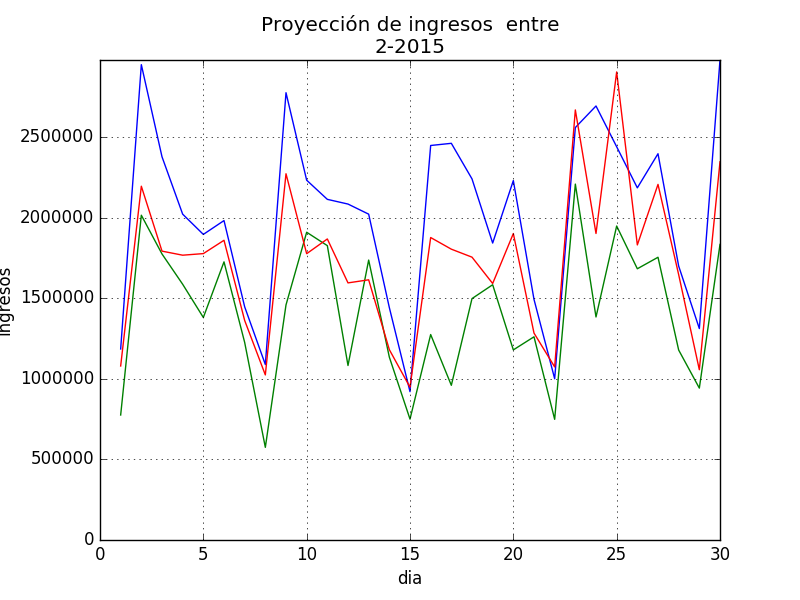
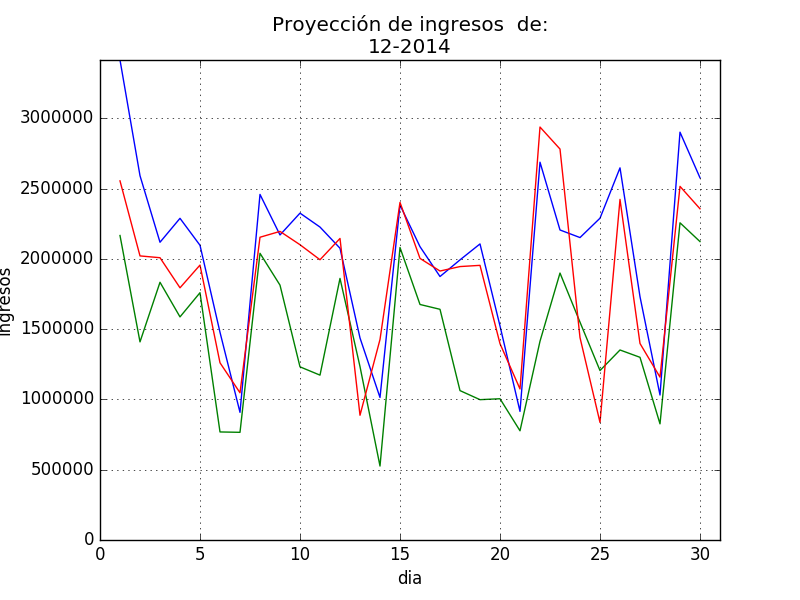
Final

diff --git a/mn_p1/src/mn_p1/interfaz.java b/mn_p1/src/mn_p1/interfaz.java
@@ -59,9 +59,6 @@ public class interfaz extends javax.swing.JFrame {
         jLabel11 = new javax.swing.JLabel();
         jComboBox8 = new javax.swing.JComboBox<>();
         jButton3 = new javax.swing.JButton();
-        jButton4 = new javax.swing.JButton();
-        jLabel12 = new javax.swing.JLabel();
-        jComboBox9 = new javax.swing.JComboBox<>();
 
         setDefaultCloseOperation(javax.swing.WindowConstants.EXIT_ON_CLOSE);
 
@@ -169,22 +166,6 @@ public class interfaz extends javax.swing.JFrame {
             }
         });
 
-        jButton4.setText("<html><p>Pronostico</p><p>Proximo</p><p>Mes (sin ajuste):</p></html>");
-        jButton4.addActionListener(new java.awt.event.ActionListener() {
-            public void actionPerformed(java.awt.event.ActionEvent evt) {
-                jButton4ActionPerformed(evt);
-            }
-        });
-
-        jLabel12.setText("Mes");
-
-        jComboBox9.setModel(new javax.swing.DefaultComboBoxModel<>(new String[] { "01", "02", "03", "04", "05", "06", "07", "08", "09", "10", "11", "12" }));
-        jComboBox9.addActionListener(new java.awt.event.ActionListener() {
-            public void actionPerformed(java.awt.event.ActionEvent evt) {
-                jComboBox9ActionPerformed(evt);
-            }
-        });
-
         javax.swing.GroupLayout jPanel1Layout = new javax.swing.GroupLayout(jPanel1);
         jPanel1.setLayout(jPanel1Layout);
         jPanel1Layout.setHorizontalGroup(
@@ -203,13 +184,8 @@ public class interfaz extends javax.swing.JFrame {
                         .addComponent(jComboBox7, javax.swing.GroupLayout.PREFERRED_SIZE, javax.swing.GroupLayout.DEFAULT_SIZE, javax.swing.GroupLayout.PREFERRED_SIZE)
                         .addGap(22, 22, 22)
                         .addComponent(jComboBox8, javax.swing.GroupLayout.PREFERRED_SIZE, javax.swing.GroupLayout.DEFAULT_SIZE, javax.swing.GroupLayout.PREFERRED_SIZE))
-                    .addComponent(jButton4, javax.swing.GroupLayout.PREFERRED_SIZE, javax.swing.GroupLayout.DEFAULT_SIZE, javax.swing.GroupLayout.PREFERRED_SIZE)
-                    .addGroup(jPanel1Layout.createSequentialGroup()
-                        .addComponent(jLabel12)
-                        .addGap(18, 18, 18)
-                        .addComponent(jComboBox9, javax.swing.GroupLayout.PREFERRED_SIZE, javax.swing.GroupLayout.DEFAULT_SIZE, javax.swing.GroupLayout.PREFERRED_SIZE))
                     .addComponent(jButton3, javax.swing.GroupLayout.PREFERRED_SIZE, javax.swing.GroupLayout.DEFAULT_SIZE, javax.swing.GroupLayout.PREFERRED_SIZE))
-                .addGap(39, 39, 39)
+                .addGap(44, 44, 44)
                 .addGroup(jPanel1Layout.createParallelGroup(javax.swing.GroupLayout.Alignment.LEADING)
                     .addGroup(jPanel1Layout.createSequentialGroup()
                         .addGap(25, 25, 25)
@@ -285,13 +261,7 @@ public class interfaz extends javax.swing.JFrame {
                         .addGroup(jPanel1Layout.createParallelGroup(javax.swing.GroupLayout.Alignment.BASELINE)
                             .addComponent(jComboBox7, javax.swing.GroupLayout.PREFERRED_SIZE, javax.swing.GroupLayout.DEFAULT_SIZE, javax.swing.GroupLayout.PREFERRED_SIZE)
                             .addComponent(jComboBox8, javax.swing.GroupLayout.PREFERRED_SIZE, javax.swing.GroupLayout.DEFAULT_SIZE, javax.swing.GroupLayout.PREFERRED_SIZE))
-                        .addGap(18, 18, 18)
-                        .addComponent(jButton4, javax.swing.GroupLayout.PREFERRED_SIZE, javax.swing.GroupLayout.DEFAULT_SIZE, javax.swing.GroupLayout.PREFERRED_SIZE)
-                        .addGap(18, 18, 18)
-                        .addGroup(jPanel1Layout.createParallelGroup(javax.swing.GroupLayout.Alignment.LEADING)
-                            .addComponent(jComboBox9, javax.swing.GroupLayout.PREFERRED_SIZE, javax.swing.GroupLayout.DEFAULT_SIZE, javax.swing.GroupLayout.PREFERRED_SIZE)
-                            .addComponent(jLabel12))
-                        .addGap(18, 18, 18)
+                        .addGap(125, 125, 125)
                         .addComponent(jButton3, javax.swing.GroupLayout.PREFERRED_SIZE, javax.swing.GroupLayout.DEFAULT_SIZE, javax.swing.GroupLayout.PREFERRED_SIZE)))
                 .addContainerGap(javax.swing.GroupLayout.DEFAULT_SIZE, Short.MAX_VALUE))
         );
@@ -473,35 +443,6 @@ public class interfaz extends javax.swing.JFrame {
         comando_cmd("cmd /c cd src/recursos python && python escritor.py");
     }//GEN-LAST:event_jButton3ActionPerformed
 
-    private void jComboBox9ActionPerformed(java.awt.event.ActionEvent evt) {//GEN-FIRST:event_jComboBox9ActionPerformed
-        // TODO add your handling code here:
-    }//GEN-LAST:event_jComboBox9ActionPerformed
-
-    private void jButton4ActionPerformed(java.awt.event.ActionEvent evt) {//GEN-FIRST:event_jButton4ActionPerformed
-        // TODO add your handling code here:
-                // TODO add your handling code here:      
-                // TODO add your handling code here:
-        System.out.println ("botonazo4");
-        
-        //Metodo para crear archivo con el texto especificado
-        String texto=getFechas()+"\r\n"+jComboBox9.getSelectedItem().toString();
-        
-        System.out.println(texto);
-        creaDoc("src/recursos python/info.txt",texto);
-        
-        //Metod que ejecuta comando
-        comando_cmd("cmd /c cd src/recursos python && python lector2.0_estimador.py");
-        
-        //Espera antes de tomar imagen
-        try{
-            Thread.sleep(8000);
-        }catch(InterruptedException e){}
-        
-        //Metodo que coloca la grafica
-        colocaGrafica("/recursos python/foo.png");
-        
-    }//GEN-LAST:event_jButton4ActionPerformed
-
     /**
      * @param args the command line arguments
      */
@@ -541,7 +482,6 @@ public class interfaz extends javax.swing.JFrame {
     private javax.swing.JButton jButton1;
     private javax.swing.JButton jButton2;
     private javax.swing.JButton jButton3;
-    private javax.swing.JButton jButton4;
     private javax.swing.JComboBox<String> jComboBox1;
     private javax.swing.JComboBox<String> jComboBox2;
     private javax.swing.JComboBox<String> jComboBox3;
@@ -550,11 +490,9 @@ public class interfaz extends javax.swing.JFrame {
     private javax.swing.JComboBox<String> jComboBox6;
     private javax.swing.JComboBox<String> jComboBox7;
     private javax.swing.JComboBox<String> jComboBox8;
-    private javax.swing.JComboBox<String> jComboBox9;
     private javax.swing.JLabel jLabel1;
     private javax.swing.JLabel jLabel10;
     private javax.swing.JLabel jLabel11;
-    private javax.swing.JLabel jLabel12;
     private javax.swing.JLabel jLabel2;
     private javax.swing.JLabel jLabel3;
     private javax.swing.JLabel jLabel4;

diff --git a/mn_p1/src/recursos python/predictor_mes2.0.py b/mn_p1/src/recursos python/predictor_mes2.0.py
@@ -203,7 +203,7 @@ for i in range(0,parte):
     for n in range(0,cant):
         dato+=m[n][i]
         #datos.append(m[n][i])
-    #1.03 factor de cresimiento
+    #1.03 factor de crecimiento
     dato=(dato)*factor[dia]*(1.03)/cant
     resultado.append(dato)
     #resultado1.append(dato+desviacion)
@@ -256,6 +256,9 @@ try:
     plot(range(1,len(resultado1)+1),resultado1)
     plot(range(1,len(resultado2)+1),resultado2)    
     plot(range(1,len(resultado2)+1),y2)
+    correlacion=np.corrcoef(y2,resultado)
+
+    print (correlacion[0][1])
     print(np.corrcoef(y2,resultado))
     
     
@@ -269,17 +272,21 @@ except:
 #Definir caracteristicas de grafica
 
 grid()
-title("Proyección de ingresos  entre\n"+str(f_proy.month)+"-"+str(f_proy.year))
+title("Proyección de ingresos  de:\n"+str(f_proy.month)+"-"+str(f_proy.year))
 xlabel("dia")
 ylabel("ingresos")
-axis([0, 30, 0, max(resultado1)])
+axis([0, 31, 0, max(resultado1)])
 
 savefig('foo.png')
 
 txt=open('DatosMes.txt','w')
+try:
+    txt.write('R^2:{:{width}.{prec}f}\n'.format(correlacion[0][1], width=13, prec=4))
+except:
+    print("no hay datos reales para obtener correlacion")
+
 txt.write('dia -- pronostico -- desv.estandar'+'\n')
 for i in range(0,len(resultado)):
-    '{: f};   {: f}'.format(3.14, -3.14)
     linea='{:2d}'.format(i+1)
     linea+='  {:{width}.{prec}f}'.format(resultado[i], width=13, prec=2)
     linea+='{:{width}.{prec}f}\n'.format(desviaciones[i], width=13, prec=2)
